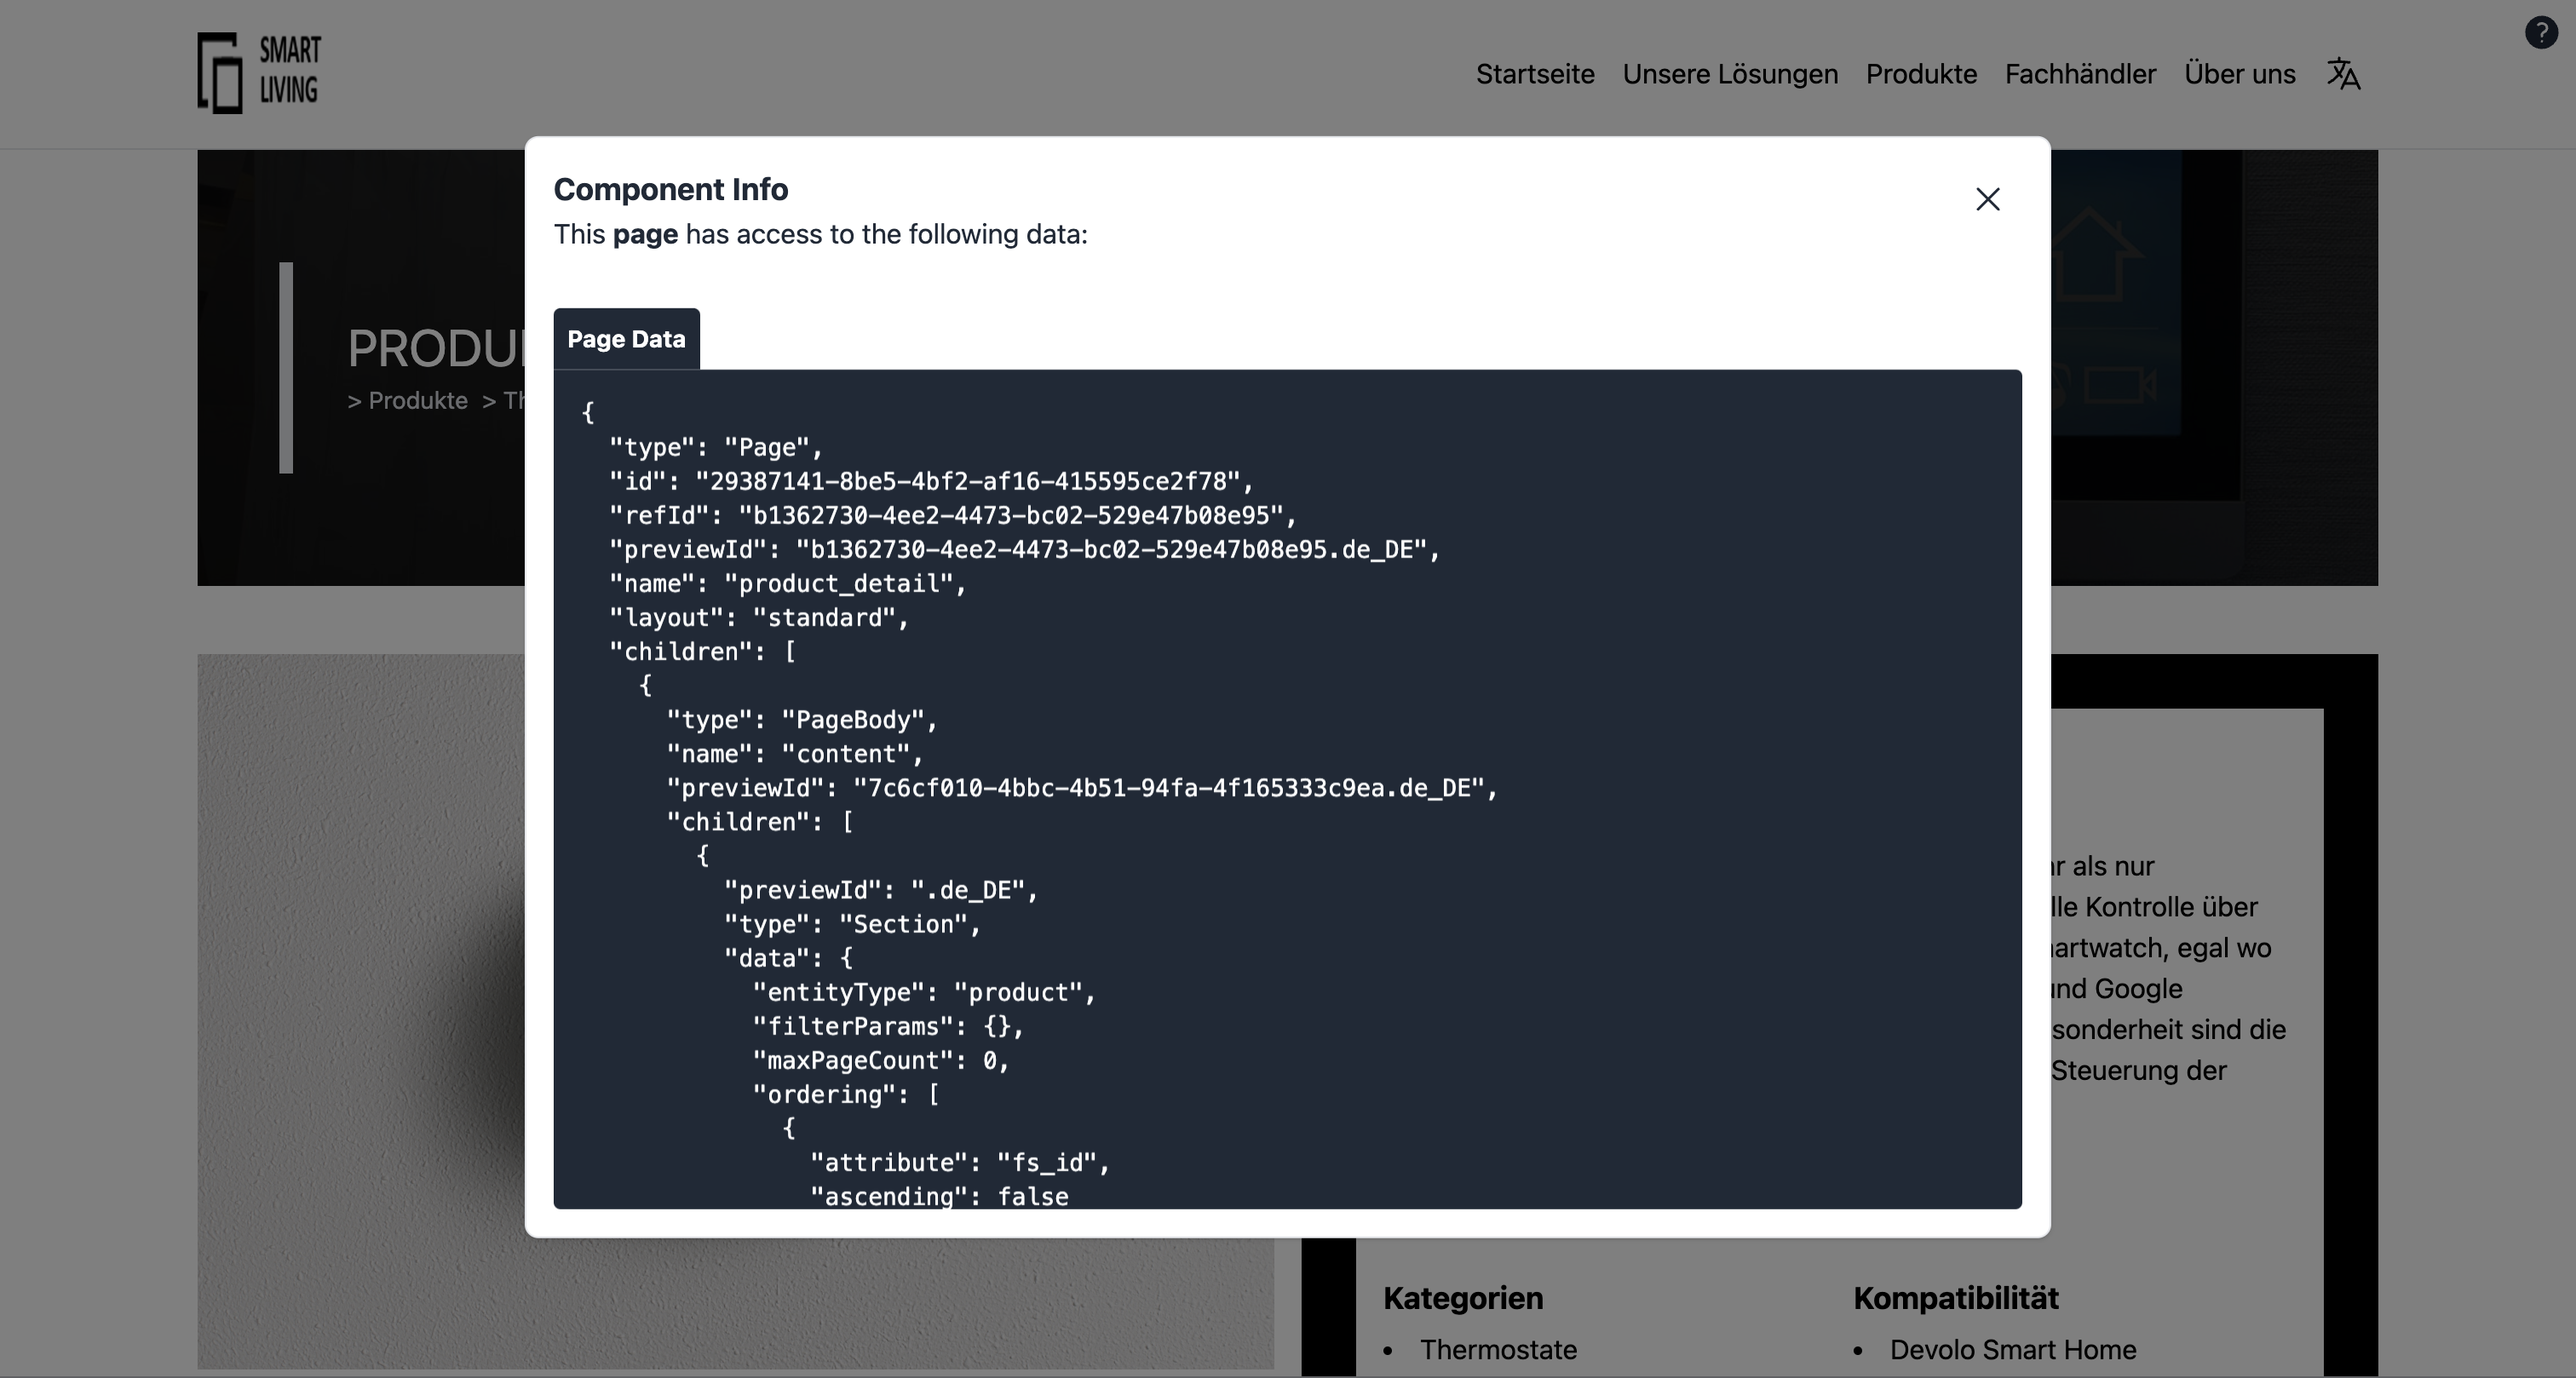
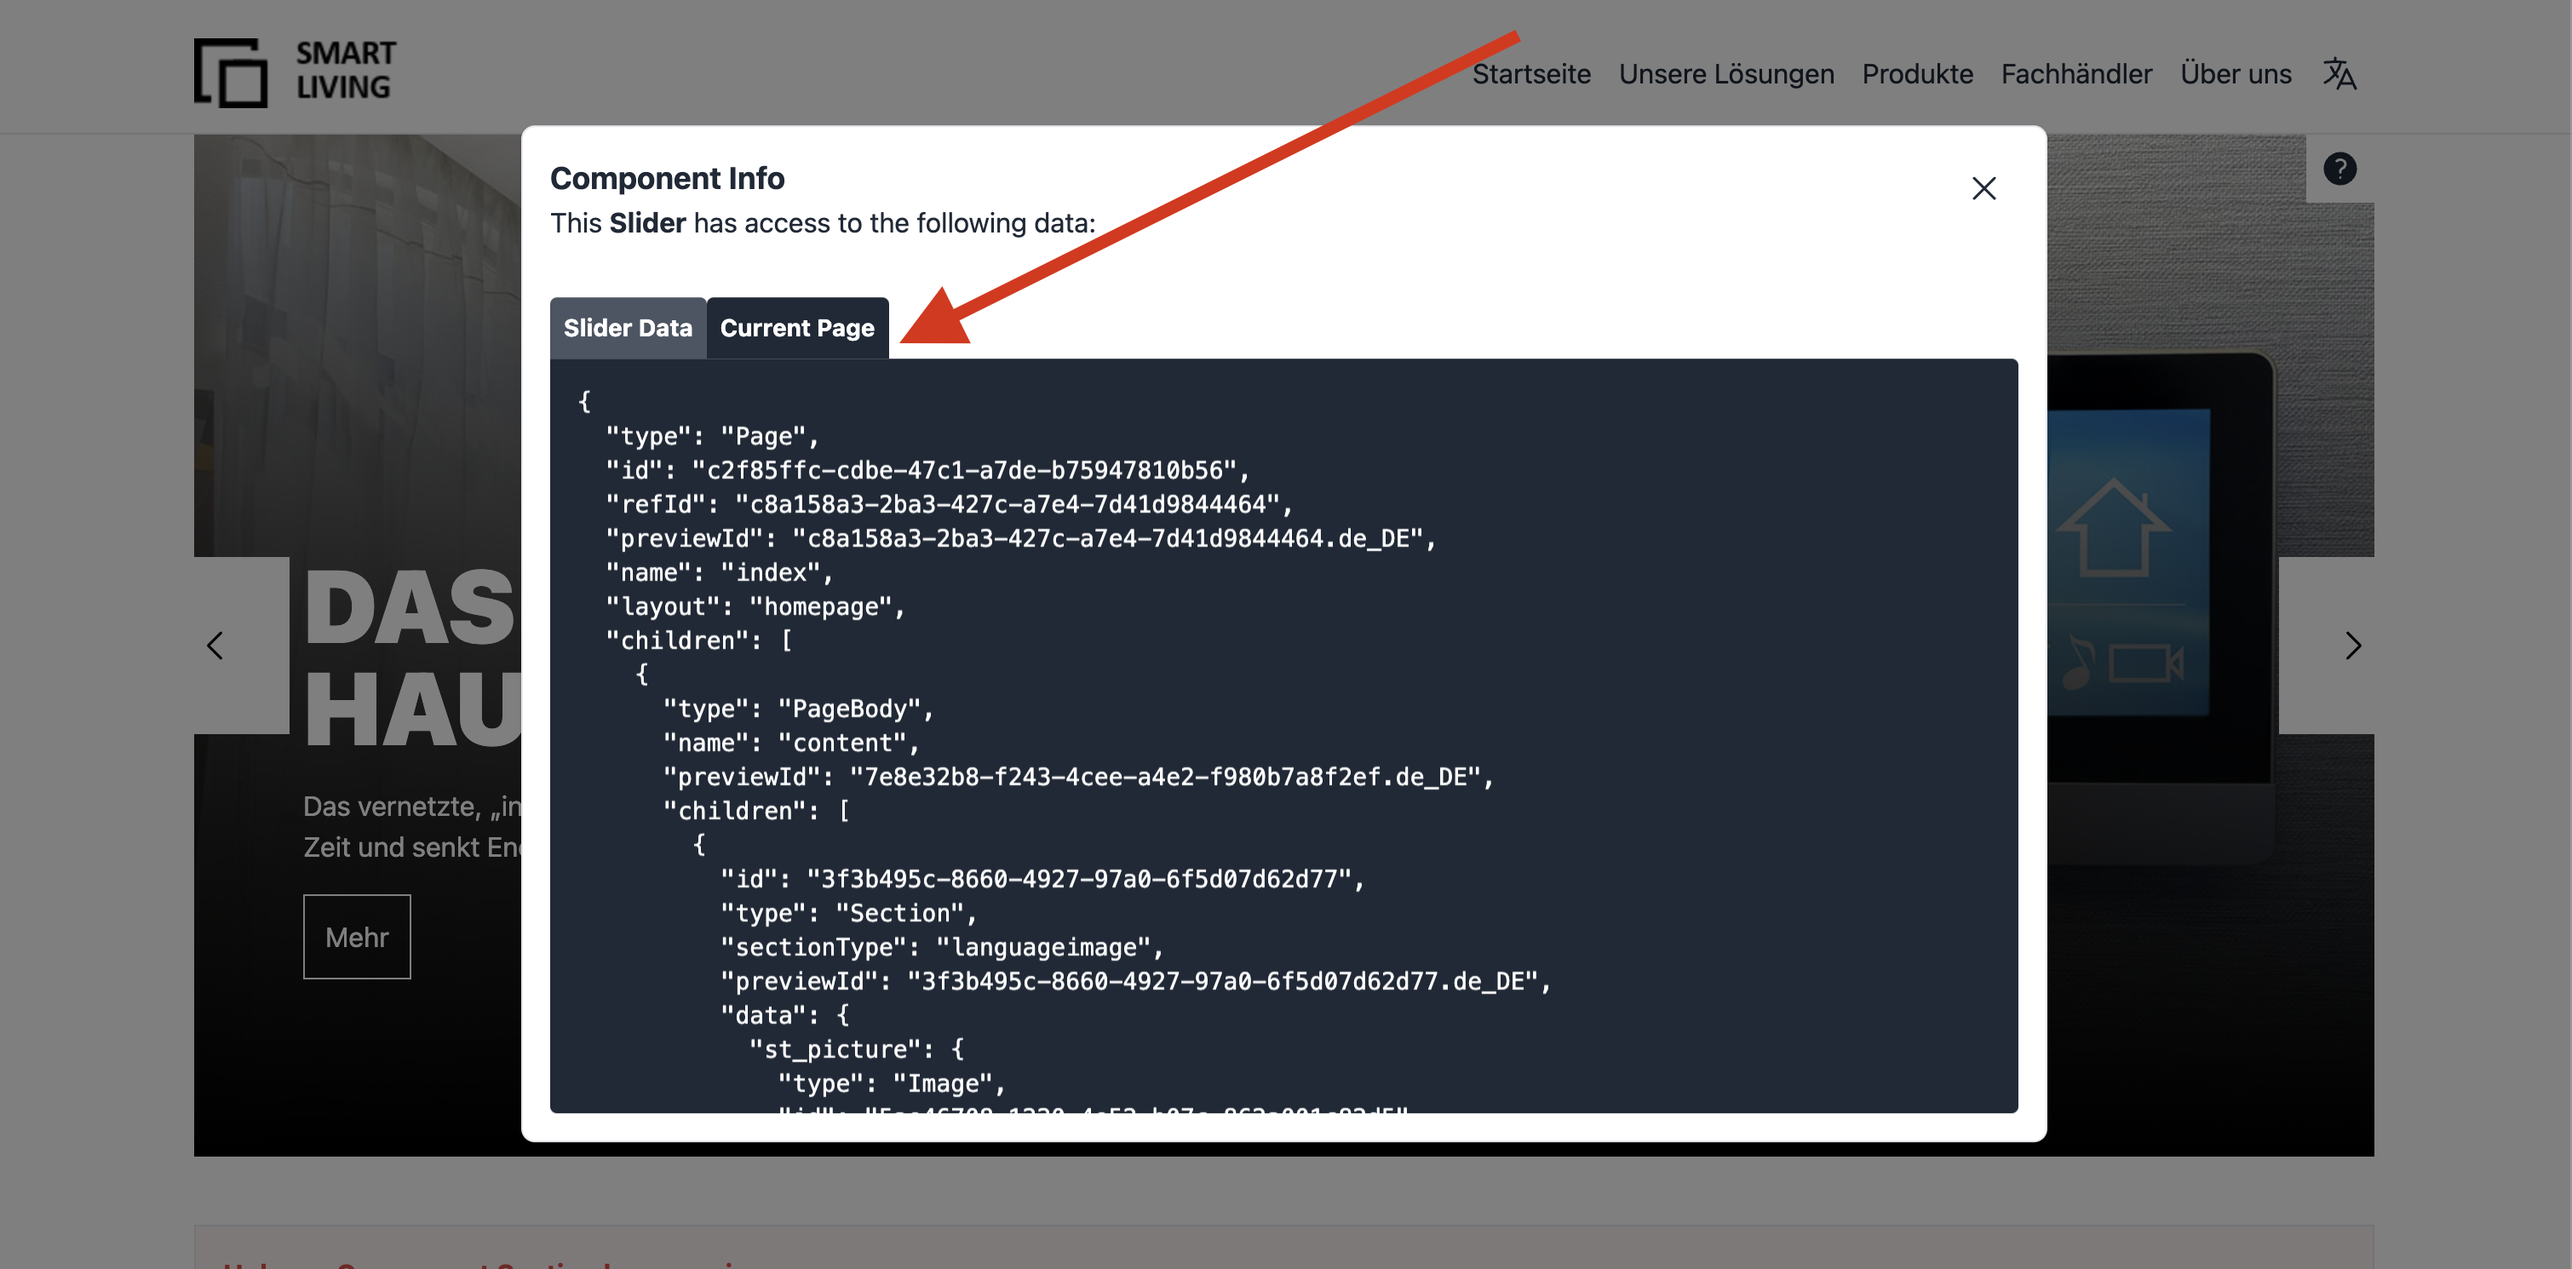
Merge branch 'alpha' of github.com:Wimadev/fsxa-nuxt3-pwa into alpha

diff --git a/components/Dev.vue b/components/Dev.vue
@@ -62,16 +62,16 @@
         <button
           class="rounded-t p-2 font-bold capitalize text-white"
           :class="{
-            'bg-gray-800 ': activeItem === 'page',
-            'bg-gray-600 ': activeItem !== 'page',
+            'bg-gray-800 ': activeItem === 'content',
+            'bg-gray-600 ': activeItem !== 'content',
           }"
-          @click="activeItem = 'page'"
+          @click="activeItem = 'content'"
         >
           {{ componentName }} Data
         </button>
 
         <button
-          v-if="dataset && isContentProjection"
+          v-if="currentDataset && isContentProjection"
           class="rounded-t p-2 font-bold text-white"
           :class="{
             'bg-gray-800 ': activeItem === 'dataset',
@@ -93,6 +93,17 @@
         >
           Products
         </button>
+
+        <button
+          class="rounded-t p-2 font-bold text-white"
+          :class="{
+            'bg-gray-800 ': activeItem === 'currentPage',
+            'bg-gray-600 ': activeItem !== 'currentPage',
+          }"
+          @click="activeItem = 'currentPage'"
+        >
+          Current Page
+        </button>
       </div>
 
       <div
@@ -111,30 +122,48 @@
 </template>
 
 <script setup lang="ts">
-import { Dataset } from "fsxa-api";
-
 const props = defineProps<{
   content: unknown;
-  dataset?: Dataset | null;
   componentName?: string;
 }>();
 
 const { activeNavigationItem } = useNavigationData();
-const { findCachedProductsByRoute } = useContent();
+const {
+  findCachedProductsByRoute,
+  findCachedPageByRoute,
+  findCachedDatasetByRoute,
+} = useContent();
 
 const devComponentVisible = ref(false);
 
-const activeItem = ref<"page" | "dataset" | "products">("page");
+const activeItem = ref<"content" | "dataset" | "products" | "currentPage">(
+  "content"
+);
 
 const devContent = computed(() => {
   if (activeItem.value === "dataset") {
-    return props.dataset;
+    return currentDataset.value;
   } else if (activeItem.value === "products") {
     return products.value;
+  } else if (activeItem.value === "currentPage") {
+    return currentPage.value;
   } else return props.content;
 });
 
-const products = computed(() => findCachedProductsByRoute(useRoute().path));
+const products = computed(() => {
+  const route = decodeURIComponent(useRoute().path);
+  return findCachedProductsByRoute(route);
+});
+
+const currentPage = computed(() => {
+  const route = decodeURIComponent(useRoute().path);
+  return findCachedPageByRoute(route);
+});
+
+const currentDataset = computed(() => {
+  const route = decodeURIComponent(useRoute().path);
+  return findCachedDatasetByRoute(route);
+});
 
 const isContentProjection = computed(
   () => activeNavigationItem.value?.seoRouteRegex !== null
